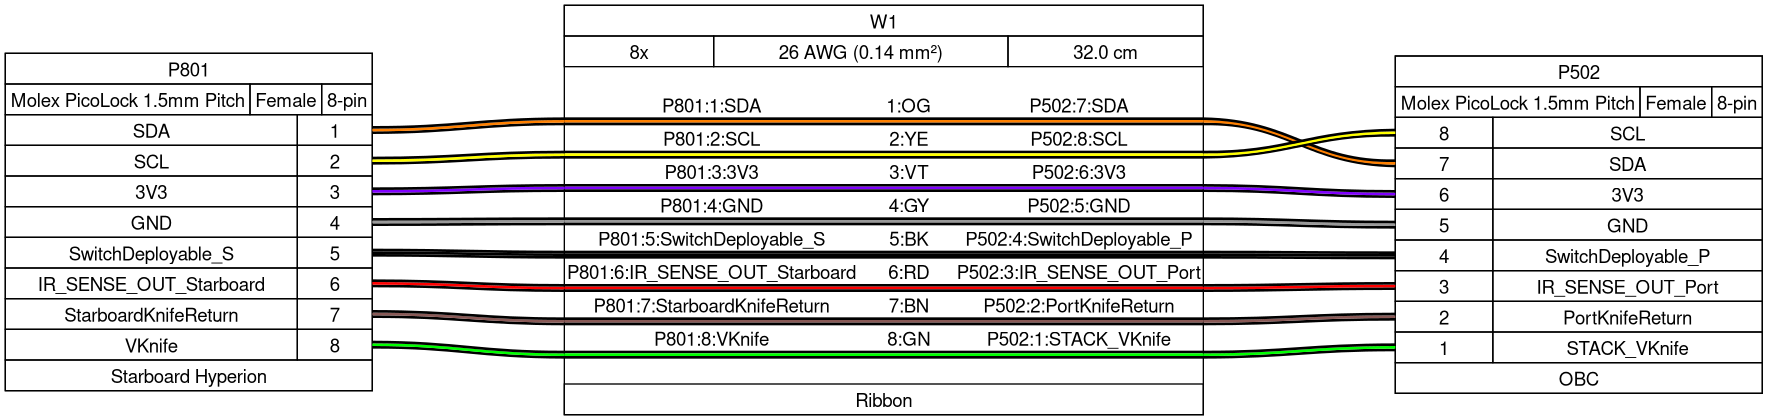
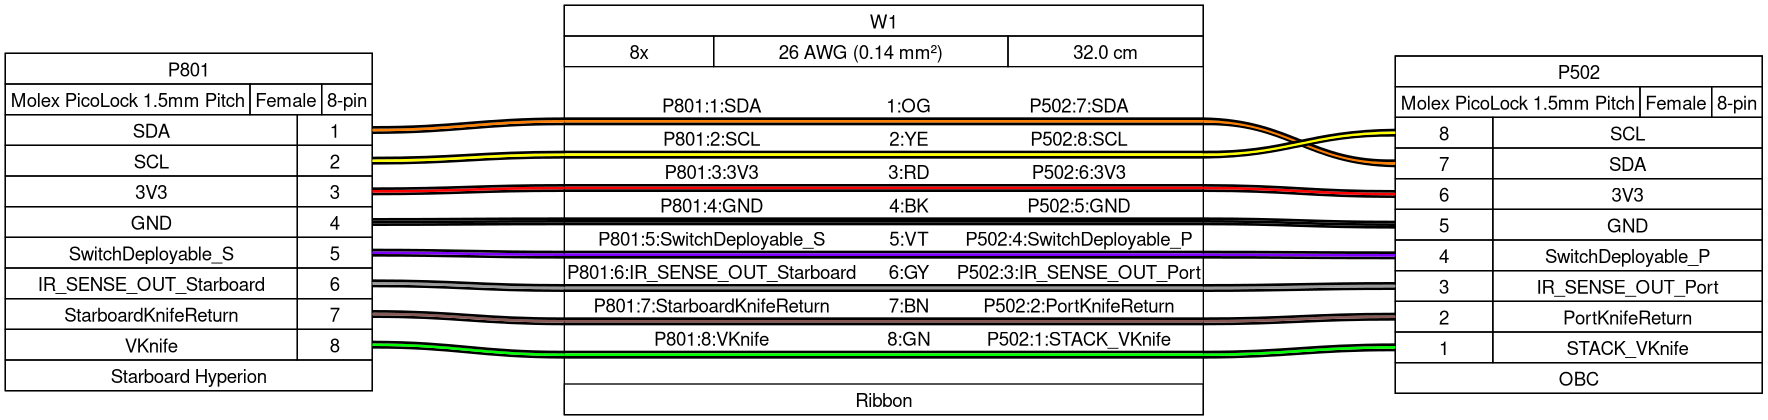
Fixed some colouring

Changed region(s): [[0.2178, 0.3714, 0.7777, 0.7119], [0.2178, 0.65, 0.28, 0.681]]

diff --git a/harnesses/EX3-009/EX3-009.html b/harnesses/EX3-009/EX3-009.html
@@ -110,28 +110,28 @@
 <polygon fill="#ffff00" stroke="none" points="419.25,-194 419.25,-196 864.75,-196 864.75,-194 419.25,-194"/>
 <polygon fill="#000000" stroke="none" points="419.25,-192 419.25,-194 864.75,-194 864.75,-192 419.25,-192"/>
 <text xml:space="preserve" text-anchor="start" x="477.5" y="-176.7" font-family="arial" font-size="14.00">P801:3:3V3</text>
-<text xml:space="preserve" text-anchor="start" x="610.5" y="-176.7" font-family="arial" font-size="14.00"> &#160;&#160;&#160;&#160;3:VT &#160;&#160;&#160;</text>
+<text xml:space="preserve" text-anchor="start" x="609.75" y="-176.7" font-family="arial" font-size="14.00"> &#160;&#160;&#160;&#160;3:RD &#160;&#160;&#160;</text>
 <text xml:space="preserve" text-anchor="start" x="736" y="-176.7" font-family="arial" font-size="14.00">P502:6:3V3</text>
 <polygon fill="#000000" stroke="none" points="419.25,-171 419.25,-173 864.75,-173 864.75,-171 419.25,-171"/>
-<polygon fill="#8000ff" stroke="none" points="419.25,-169 419.25,-171 864.75,-171 864.75,-169 419.25,-169"/>
+<polygon fill="#ff0000" stroke="none" points="419.25,-169 419.25,-171 864.75,-171 864.75,-169 419.25,-169"/>
 <polygon fill="#000000" stroke="none" points="419.25,-167 419.25,-169 864.75,-169 864.75,-167 419.25,-167"/>
 <text xml:space="preserve" text-anchor="start" x="474.12" y="-151.7" font-family="arial" font-size="14.00">P801:4:GND</text>
-<text xml:space="preserve" text-anchor="start" x="610.12" y="-151.7" font-family="arial" font-size="14.00"> &#160;&#160;&#160;&#160;4:GY &#160;&#160;&#160;</text>
+<text xml:space="preserve" text-anchor="start" x="610.5" y="-151.7" font-family="arial" font-size="14.00"> &#160;&#160;&#160;&#160;4:BK &#160;&#160;&#160;</text>
 <text xml:space="preserve" text-anchor="start" x="732.62" y="-151.7" font-family="arial" font-size="14.00">P502:5:GND</text>
 <polygon fill="#000000" stroke="none" points="419.25,-146 419.25,-148 864.75,-148 864.75,-146 419.25,-146"/>
-<polygon fill="#999999" stroke="none" points="419.25,-144 419.25,-146 864.75,-146 864.75,-144 419.25,-144"/>
+<polygon fill="#000000" stroke="none" points="419.25,-144 419.25,-146 864.75,-146 864.75,-144 419.25,-144"/>
 <polygon fill="#000000" stroke="none" points="419.25,-142 419.25,-144 864.75,-144 864.75,-142 419.25,-142"/>
 <text xml:space="preserve" text-anchor="start" x="427.62" y="-126.7" font-family="arial" font-size="14.00">P801:5:SwitchDeployable_P</text>
-<text xml:space="preserve" text-anchor="start" x="610.5" y="-126.7" font-family="arial" font-size="14.00"> &#160;&#160;&#160;&#160;5:BK &#160;&#160;&#160;</text>
+<text xml:space="preserve" text-anchor="start" x="610.5" y="-126.7" font-family="arial" font-size="14.00"> &#160;&#160;&#160;&#160;5:VT &#160;&#160;&#160;</text>
 <text xml:space="preserve" text-anchor="start" x="686.12" y="-126.7" font-family="arial" font-size="14.00">P502:4:SwitchDeployable_P</text>
 <polygon fill="#000000" stroke="none" points="419.25,-121 419.25,-123 864.75,-123 864.75,-121 419.25,-121"/>
-<polygon fill="#000000" stroke="none" points="419.25,-119 419.25,-121 864.75,-121 864.75,-119 419.25,-119"/>
+<polygon fill="#8000ff" stroke="none" points="419.25,-119 419.25,-121 864.75,-121 864.75,-119 419.25,-119"/>
 <polygon fill="#000000" stroke="none" points="419.25,-117 419.25,-119 864.75,-119 864.75,-117 419.25,-117"/>
 <text xml:space="preserve" text-anchor="start" x="421.25" y="-101.7" font-family="arial" font-size="14.00">P801:6:IR_SENSE_OUT_Port</text>
-<text xml:space="preserve" text-anchor="start" x="609.75" y="-101.7" font-family="arial" font-size="14.00"> &#160;&#160;&#160;&#160;6:RD &#160;&#160;&#160;</text>
+<text xml:space="preserve" text-anchor="start" x="610.12" y="-101.7" font-family="arial" font-size="14.00"> &#160;&#160;&#160;&#160;6:GY &#160;&#160;&#160;</text>
 <text xml:space="preserve" text-anchor="start" x="679.75" y="-101.7" font-family="arial" font-size="14.00">P502:3:IR_SENSE_OUT_Port</text>
 <polygon fill="#000000" stroke="none" points="419.25,-96 419.25,-98 864.75,-98 864.75,-96 419.25,-96"/>
-<polygon fill="#ff0000" stroke="none" points="419.25,-94 419.25,-96 864.75,-96 864.75,-94 419.25,-94"/>
+<polygon fill="#999999" stroke="none" points="419.25,-94 419.25,-96 864.75,-96 864.75,-94 419.25,-94"/>
 <polygon fill="#000000" stroke="none" points="419.25,-92 419.25,-94 864.75,-94 864.75,-92 419.25,-92"/>
 <text xml:space="preserve" text-anchor="start" x="441.12" y="-76.7" font-family="arial" font-size="14.00">P801:7:PortKnifeReturn</text>
 <text xml:space="preserve" text-anchor="start" x="610.12" y="-76.7" font-family="arial" font-size="14.00"> &#160;&#160;&#160;&#160;7:BN &#160;&#160;&#160;</text>
@@ -167,28 +167,28 @@
 <g id="edge5" class="edge">
 <title>P801:e&#45;&#45;W1:w</title>
 <path fill="none" stroke="#000000" stroke-width="2" d="M275.25,-165.5C339.57,-165.52 355.55,-168.02 419.25,-168"/>
-<path fill="none" stroke="#8000ff" stroke-width="2" d="M275.25,-167.5C339.26,-167.5 355.24,-170 419.25,-170"/>
+<path fill="none" stroke="#ff0000" stroke-width="2" d="M275.25,-167.5C339.26,-167.5 355.24,-170 419.25,-170"/>
 <path fill="none" stroke="#000000" stroke-width="2" d="M275.25,-169.5C338.95,-169.48 354.93,-171.98 419.25,-172"/>
 </g>
 <!-- P801&#45;&#45;W1 -->
 <g id="edge7" class="edge">
 <title>P801:e&#45;&#45;W1:w</title>
 <path fill="none" stroke="#000000" stroke-width="2" d="M275.25,-142.5C339.31,-142.5 355.31,-143 419.25,-143"/>
-<path fill="none" stroke="#999999" stroke-width="2" d="M275.25,-144.5C339.25,-144.5 355.25,-145 419.25,-145"/>
+<path fill="none" stroke="#000000" stroke-width="2" d="M275.25,-144.5C339.25,-144.5 355.25,-145 419.25,-145"/>
 <path fill="none" stroke="#000000" stroke-width="2" d="M275.25,-146.5C339.19,-146.5 355.19,-147 419.25,-147"/>
 </g>
 <!-- P801&#45;&#45;W1 -->
 <g id="edge9" class="edge">
 <title>P801:e&#45;&#45;W1:w</title>
 <path fill="none" stroke="#000000" stroke-width="2" d="M275.25,-119.5C339.07,-119.51 355.06,-118.01 419.25,-118"/>
-<path fill="none" stroke="#000000" stroke-width="2" d="M275.25,-121.5C339.25,-121.5 355.25,-120 419.25,-120"/>
+<path fill="none" stroke="#8000ff" stroke-width="2" d="M275.25,-121.5C339.25,-121.5 355.25,-120 419.25,-120"/>
 <path fill="none" stroke="#000000" stroke-width="2" d="M275.25,-123.5C339.44,-123.49 355.43,-121.99 419.25,-122"/>
 </g>
 <!-- P801&#45;&#45;W1 -->
 <g id="edge11" class="edge">
 <title>P801:e&#45;&#45;W1:w</title>
 <path fill="none" stroke="#000000" stroke-width="2" d="M275.25,-96.5C338.84,-96.55 354.8,-93.05 419.25,-93"/>
-<path fill="none" stroke="#ff0000" stroke-width="2" d="M275.25,-98.5C339.27,-98.5 355.23,-95 419.25,-95"/>
+<path fill="none" stroke="#999999" stroke-width="2" d="M275.25,-98.5C339.27,-98.5 355.23,-95 419.25,-95"/>
 <path fill="none" stroke="#000000" stroke-width="2" d="M275.25,-100.5C339.7,-100.45 355.66,-96.95 419.25,-97"/>
 </g>
 <!-- P801&#45;&#45;W1 -->
@@ -270,28 +270,28 @@
 <g id="edge6" class="edge">
 <title>W1:e&#45;&#45;P502:w</title>
 <path fill="none" stroke="#000000" stroke-width="2" d="M864.75,-168C928.24,-168.08 944.18,-163.58 1008.75,-163.5"/>
-<path fill="none" stroke="#8000ff" stroke-width="2" d="M864.75,-170C928.78,-170 944.72,-165.5 1008.75,-165.5"/>
+<path fill="none" stroke="#ff0000" stroke-width="2" d="M864.75,-170C928.78,-170 944.72,-165.5 1008.75,-165.5"/>
 <path fill="none" stroke="#000000" stroke-width="2" d="M864.75,-172C929.32,-171.92 945.26,-167.42 1008.75,-167.5"/>
 </g>
 <!-- W1&#45;&#45;P502 -->
 <g id="edge8" class="edge">
 <title>W1:e&#45;&#45;P502:w</title>
 <path fill="none" stroke="#000000" stroke-width="2" d="M864.75,-143C928.45,-143.02 944.43,-140.52 1008.75,-140.5"/>
-<path fill="none" stroke="#999999" stroke-width="2" d="M864.75,-145C928.76,-145 944.74,-142.5 1008.75,-142.5"/>
+<path fill="none" stroke="#000000" stroke-width="2" d="M864.75,-145C928.76,-145 944.74,-142.5 1008.75,-142.5"/>
 <path fill="none" stroke="#000000" stroke-width="2" d="M864.75,-147C929.07,-146.98 945.05,-144.48 1008.75,-144.5"/>
 </g>
 <!-- W1&#45;&#45;P502 -->
 <g id="edge10" class="edge">
 <title>W1:e&#45;&#45;P502:w</title>
 <path fill="none" stroke="#000000" stroke-width="2" d="M864.75,-118C928.69,-118 944.69,-117.5 1008.75,-117.5"/>
-<path fill="none" stroke="#000000" stroke-width="2" d="M864.75,-120C928.75,-120 944.75,-119.5 1008.75,-119.5"/>
+<path fill="none" stroke="#8000ff" stroke-width="2" d="M864.75,-120C928.75,-120 944.75,-119.5 1008.75,-119.5"/>
 <path fill="none" stroke="#000000" stroke-width="2" d="M864.75,-122C928.81,-122 944.81,-121.5 1008.75,-121.5"/>
 </g>
 <!-- W1&#45;&#45;P502 -->
 <g id="edge12" class="edge">
 <title>W1:e&#45;&#45;P502:w</title>
 <path fill="none" stroke="#000000" stroke-width="2" d="M864.75,-93C928.94,-93.01 944.93,-94.51 1008.75,-94.5"/>
-<path fill="none" stroke="#ff0000" stroke-width="2" d="M864.75,-95C928.75,-95 944.75,-96.5 1008.75,-96.5"/>
+<path fill="none" stroke="#999999" stroke-width="2" d="M864.75,-95C928.75,-95 944.75,-96.5 1008.75,-96.5"/>
 <path fill="none" stroke="#000000" stroke-width="2" d="M864.75,-97C928.57,-96.99 944.56,-98.49 1008.75,-98.5"/>
 </g>
 <!-- W1&#45;&#45;P502 -->

diff --git a/harnesses/EX3-008/EX3-008.html b/harnesses/EX3-008/EX3-008.html
@@ -110,28 +110,28 @@
 <polygon fill="#ffff00" stroke="none" points="419.25,-194 419.25,-196 898.5,-196 898.5,-194 419.25,-194"/>
 <polygon fill="#000000" stroke="none" points="419.25,-192 419.25,-194 898.5,-194 898.5,-192 419.25,-192"/>
 <text xml:space="preserve" text-anchor="start" x="494.38" y="-176.7" font-family="arial" font-size="14.00">P801:3:3V3</text>
-<text xml:space="preserve" text-anchor="start" x="644.25" y="-176.7" font-family="arial" font-size="14.00"> &#160;&#160;&#160;&#160;3:VT &#160;&#160;&#160;</text>
+<text xml:space="preserve" text-anchor="start" x="643.5" y="-176.7" font-family="arial" font-size="14.00"> &#160;&#160;&#160;&#160;3:RD &#160;&#160;&#160;</text>
 <text xml:space="preserve" text-anchor="start" x="769.75" y="-176.7" font-family="arial" font-size="14.00">P502:6:3V3</text>
 <polygon fill="#000000" stroke="none" points="419.25,-171 419.25,-173 898.5,-173 898.5,-171 419.25,-171"/>
-<polygon fill="#8000ff" stroke="none" points="419.25,-169 419.25,-171 898.5,-171 898.5,-169 419.25,-169"/>
+<polygon fill="#ff0000" stroke="none" points="419.25,-169 419.25,-171 898.5,-171 898.5,-169 419.25,-169"/>
 <polygon fill="#000000" stroke="none" points="419.25,-167 419.25,-169 898.5,-169 898.5,-167 419.25,-167"/>
 <text xml:space="preserve" text-anchor="start" x="491" y="-151.7" font-family="arial" font-size="14.00">P801:4:GND</text>
-<text xml:space="preserve" text-anchor="start" x="643.88" y="-151.7" font-family="arial" font-size="14.00"> &#160;&#160;&#160;&#160;4:GY &#160;&#160;&#160;</text>
+<text xml:space="preserve" text-anchor="start" x="644.25" y="-151.7" font-family="arial" font-size="14.00"> &#160;&#160;&#160;&#160;4:BK &#160;&#160;&#160;</text>
 <text xml:space="preserve" text-anchor="start" x="766.38" y="-151.7" font-family="arial" font-size="14.00">P502:5:GND</text>
 <polygon fill="#000000" stroke="none" points="419.25,-146 419.25,-148 898.5,-148 898.5,-146 419.25,-146"/>
-<polygon fill="#999999" stroke="none" points="419.25,-144 419.25,-146 898.5,-146 898.5,-144 419.25,-144"/>
+<polygon fill="#000000" stroke="none" points="419.25,-144 419.25,-146 898.5,-146 898.5,-144 419.25,-144"/>
 <polygon fill="#000000" stroke="none" points="419.25,-142 419.25,-144 898.5,-144 898.5,-142 419.25,-142"/>
 <text xml:space="preserve" text-anchor="start" x="444.5" y="-126.7" font-family="arial" font-size="14.00">P801:5:SwitchDeployable_S</text>
-<text xml:space="preserve" text-anchor="start" x="644.25" y="-126.7" font-family="arial" font-size="14.00"> &#160;&#160;&#160;&#160;5:BK &#160;&#160;&#160;</text>
+<text xml:space="preserve" text-anchor="start" x="644.25" y="-126.7" font-family="arial" font-size="14.00"> &#160;&#160;&#160;&#160;5:VT &#160;&#160;&#160;</text>
 <text xml:space="preserve" text-anchor="start" x="719.88" y="-126.7" font-family="arial" font-size="14.00">P502:4:SwitchDeployable_P</text>
 <polygon fill="#000000" stroke="none" points="419.25,-121 419.25,-123 898.5,-123 898.5,-121 419.25,-121"/>
-<polygon fill="#000000" stroke="none" points="419.25,-119 419.25,-121 898.5,-121 898.5,-119 419.25,-119"/>
+<polygon fill="#8000ff" stroke="none" points="419.25,-119 419.25,-121 898.5,-121 898.5,-119 419.25,-119"/>
 <polygon fill="#000000" stroke="none" points="419.25,-117 419.25,-119 898.5,-119 898.5,-117 419.25,-117"/>
 <text xml:space="preserve" text-anchor="start" x="421.25" y="-101.7" font-family="arial" font-size="14.00">P801:6:IR_SENSE_OUT_Starboard</text>
-<text xml:space="preserve" text-anchor="start" x="643.5" y="-101.7" font-family="arial" font-size="14.00"> &#160;&#160;&#160;&#160;6:RD &#160;&#160;&#160;</text>
+<text xml:space="preserve" text-anchor="start" x="643.88" y="-101.7" font-family="arial" font-size="14.00"> &#160;&#160;&#160;&#160;6:GY &#160;&#160;&#160;</text>
 <text xml:space="preserve" text-anchor="start" x="713.5" y="-101.7" font-family="arial" font-size="14.00">P502:3:IR_SENSE_OUT_Port</text>
 <polygon fill="#000000" stroke="none" points="419.25,-96 419.25,-98 898.5,-98 898.5,-96 419.25,-96"/>
-<polygon fill="#ff0000" stroke="none" points="419.25,-94 419.25,-96 898.5,-96 898.5,-94 419.25,-94"/>
+<polygon fill="#999999" stroke="none" points="419.25,-94 419.25,-96 898.5,-96 898.5,-94 419.25,-94"/>
 <polygon fill="#000000" stroke="none" points="419.25,-92 419.25,-94 898.5,-94 898.5,-92 419.25,-92"/>
 <text xml:space="preserve" text-anchor="start" x="441.12" y="-76.7" font-family="arial" font-size="14.00">P801:7:StarboardKnifeReturn</text>
 <text xml:space="preserve" text-anchor="start" x="643.88" y="-76.7" font-family="arial" font-size="14.00"> &#160;&#160;&#160;&#160;7:BN &#160;&#160;&#160;</text>
@@ -167,28 +167,28 @@
 <g id="edge5" class="edge">
 <title>P801:e&#45;&#45;W1:w</title>
 <path fill="none" stroke="#000000" stroke-width="2" d="M275.25,-165.5C339.57,-165.52 355.55,-168.02 419.25,-168"/>
-<path fill="none" stroke="#8000ff" stroke-width="2" d="M275.25,-167.5C339.26,-167.5 355.24,-170 419.25,-170"/>
+<path fill="none" stroke="#ff0000" stroke-width="2" d="M275.25,-167.5C339.26,-167.5 355.24,-170 419.25,-170"/>
 <path fill="none" stroke="#000000" stroke-width="2" d="M275.25,-169.5C338.95,-169.48 354.93,-171.98 419.25,-172"/>
 </g>
 <!-- P801&#45;&#45;W1 -->
 <g id="edge7" class="edge">
 <title>P801:e&#45;&#45;W1:w</title>
 <path fill="none" stroke="#000000" stroke-width="2" d="M275.25,-142.5C339.31,-142.5 355.31,-143 419.25,-143"/>
-<path fill="none" stroke="#999999" stroke-width="2" d="M275.25,-144.5C339.25,-144.5 355.25,-145 419.25,-145"/>
+<path fill="none" stroke="#000000" stroke-width="2" d="M275.25,-144.5C339.25,-144.5 355.25,-145 419.25,-145"/>
 <path fill="none" stroke="#000000" stroke-width="2" d="M275.25,-146.5C339.19,-146.5 355.19,-147 419.25,-147"/>
 </g>
 <!-- P801&#45;&#45;W1 -->
 <g id="edge9" class="edge">
 <title>P801:e&#45;&#45;W1:w</title>
 <path fill="none" stroke="#000000" stroke-width="2" d="M275.25,-119.5C339.07,-119.51 355.06,-118.01 419.25,-118"/>
-<path fill="none" stroke="#000000" stroke-width="2" d="M275.25,-121.5C339.25,-121.5 355.25,-120 419.25,-120"/>
+<path fill="none" stroke="#8000ff" stroke-width="2" d="M275.25,-121.5C339.25,-121.5 355.25,-120 419.25,-120"/>
 <path fill="none" stroke="#000000" stroke-width="2" d="M275.25,-123.5C339.44,-123.49 355.43,-121.99 419.25,-122"/>
 </g>
 <!-- P801&#45;&#45;W1 -->
 <g id="edge11" class="edge">
 <title>P801:e&#45;&#45;W1:w</title>
 <path fill="none" stroke="#000000" stroke-width="2" d="M275.25,-96.5C338.84,-96.55 354.8,-93.05 419.25,-93"/>
-<path fill="none" stroke="#ff0000" stroke-width="2" d="M275.25,-98.5C339.27,-98.5 355.23,-95 419.25,-95"/>
+<path fill="none" stroke="#999999" stroke-width="2" d="M275.25,-98.5C339.27,-98.5 355.23,-95 419.25,-95"/>
 <path fill="none" stroke="#000000" stroke-width="2" d="M275.25,-100.5C339.7,-100.45 355.66,-96.95 419.25,-97"/>
 </g>
 <!-- P801&#45;&#45;W1 -->
@@ -270,28 +270,28 @@
 <g id="edge6" class="edge">
 <title>W1:e&#45;&#45;P502:w</title>
 <path fill="none" stroke="#000000" stroke-width="2" d="M898.5,-168C961.99,-168.08 977.93,-163.58 1042.5,-163.5"/>
-<path fill="none" stroke="#8000ff" stroke-width="2" d="M898.5,-170C962.53,-170 978.47,-165.5 1042.5,-165.5"/>
+<path fill="none" stroke="#ff0000" stroke-width="2" d="M898.5,-170C962.53,-170 978.47,-165.5 1042.5,-165.5"/>
 <path fill="none" stroke="#000000" stroke-width="2" d="M898.5,-172C963.07,-171.92 979.01,-167.42 1042.5,-167.5"/>
 </g>
 <!-- W1&#45;&#45;P502 -->
 <g id="edge8" class="edge">
 <title>W1:e&#45;&#45;P502:w</title>
 <path fill="none" stroke="#000000" stroke-width="2" d="M898.5,-143C962.2,-143.02 978.18,-140.52 1042.5,-140.5"/>
-<path fill="none" stroke="#999999" stroke-width="2" d="M898.5,-145C962.51,-145 978.49,-142.5 1042.5,-142.5"/>
+<path fill="none" stroke="#000000" stroke-width="2" d="M898.5,-145C962.51,-145 978.49,-142.5 1042.5,-142.5"/>
 <path fill="none" stroke="#000000" stroke-width="2" d="M898.5,-147C962.82,-146.98 978.8,-144.48 1042.5,-144.5"/>
 </g>
 <!-- W1&#45;&#45;P502 -->
 <g id="edge10" class="edge">
 <title>W1:e&#45;&#45;P502:w</title>
 <path fill="none" stroke="#000000" stroke-width="2" d="M898.5,-118C962.44,-118 978.44,-117.5 1042.5,-117.5"/>
-<path fill="none" stroke="#000000" stroke-width="2" d="M898.5,-120C962.5,-120 978.5,-119.5 1042.5,-119.5"/>
+<path fill="none" stroke="#8000ff" stroke-width="2" d="M898.5,-120C962.5,-120 978.5,-119.5 1042.5,-119.5"/>
 <path fill="none" stroke="#000000" stroke-width="2" d="M898.5,-122C962.56,-122 978.56,-121.5 1042.5,-121.5"/>
 </g>
 <!-- W1&#45;&#45;P502 -->
 <g id="edge12" class="edge">
 <title>W1:e&#45;&#45;P502:w</title>
 <path fill="none" stroke="#000000" stroke-width="2" d="M898.5,-93C962.69,-93.01 978.68,-94.51 1042.5,-94.5"/>
-<path fill="none" stroke="#ff0000" stroke-width="2" d="M898.5,-95C962.5,-95 978.5,-96.5 1042.5,-96.5"/>
+<path fill="none" stroke="#999999" stroke-width="2" d="M898.5,-95C962.5,-95 978.5,-96.5 1042.5,-96.5"/>
 <path fill="none" stroke="#000000" stroke-width="2" d="M898.5,-97C962.32,-96.99 978.31,-98.49 1042.5,-98.5"/>
 </g>
 <!-- W1&#45;&#45;P502 -->
